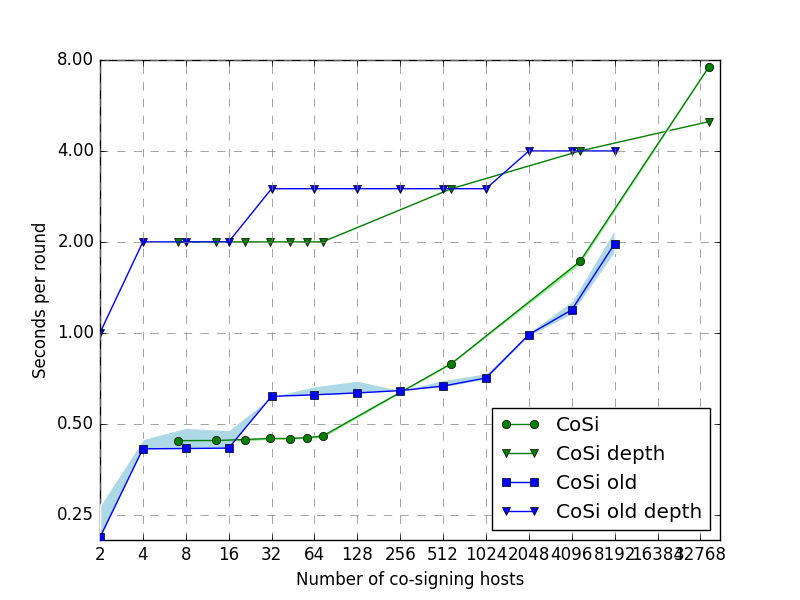
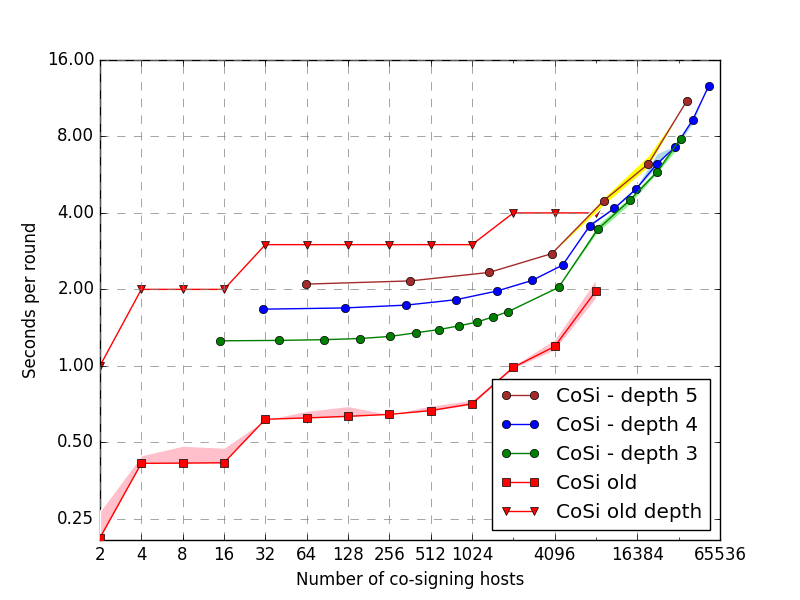
made new plot

diff --git a/simul/matplotlib/Paper_cosi2/plotit.py b/simul/matplotlib/Paper_cosi2/plotit.py
@@ -101,16 +101,20 @@ def plotAvgMM(cosi1, jvss = None, naive = None, nt = None):
 # Plots a Cothority and a JVSS run with regard to their averages. Supposes that
 # the last two values from JVSS are off-grid and writes them with arrows
 # directly on the plot
-def plotCoSiOld(cosi, cosi_old):
+def plotCoSiOld(cosi_old, cosi_3, cosi_4, cosi_5):
     mplot.plotPrepareLogLog()
 
-    co = mplot.plotMMA(cosi, 'round_wall', color1_light, 4,
-                       dict(label='CoSi', linestyle='-', marker='o', color=color1_dark, zorder=5))
-    co_depth = cosi.columns['depth']
-    plt.plot(cosi.x, co_depth, linestyle='-', marker='v', color=color1_dark, label='CoSi depth')
+    co_5 = mplot.plotMMA(cosi_5, 'round_wall', color3_light, 4,
+                       dict(label='CoSi - depth 5', linestyle='-', marker='o', color=color3_dark, zorder=5))
 
-    co_old = mplot.plotMMA(cosi_old, 'round_wall', color2_light, 4,
-                       dict(label='CoSi old', linestyle='-', marker='s', color=color2_dark, zorder=5))
+    co_4 = mplot.plotMMA(cosi_4, 'round_wall', color2_light, 4,
+                       dict(label='CoSi - depth 4', linestyle='-', marker='o', color=color2_dark, zorder=5))
+
+    co_3 = mplot.plotMMA(cosi_3, 'round_wall', color1_light, 4,
+                       dict(label='CoSi - depth 3', linestyle='-', marker='o', color=color1_dark, zorder=5))
+
+    co_old = mplot.plotMMA(cosi_old, 'round_wall', color4_light, 4,
+                       dict(label='CoSi old', linestyle='-', marker='s', color=color4_dark, zorder=5))
     co_old_hosts = cosi_old.columns['hosts']
     co_old_bf = cosi_old.columns['bf']
     co_old_depth = []
@@ -126,12 +130,12 @@ def plotCoSiOld(cosi, cosi_old):
     print co_old_hosts
     print co_old_bf
     print co_old_depth
-    plt.plot(cosi_old.x, co_old_depth, linestyle='-', marker='v', color=color2_dark, label='CoSi old depth')
+    plt.plot(cosi_old.x, co_old_depth, linestyle='-', marker='v', color=color4_dark, label='CoSi old depth')
 
     # Make horizontal lines and add arrows for JVSS
     # xmin, xmax, ymin, ymax = CSVStats.get_min_max(na, co)
-    xmin, xmax, ymin, ymax = CSVStats.get_min_max(co, co_old)
-    plt.ylim(ymin, 8)
+    xmin, xmax, ymin, ymax = CSVStats.get_min_max(co_3, co_4, co_5, co_old)
+    plt.ylim(ymin, 16)
     plt.xlim(xmin, xmax * 1.2)
     plt.ylabel('Seconds per round')
 
@@ -292,8 +296,8 @@ def args_to_csv(argn, xname = "hosts"):
 option = sys.argv[1]
 
 if option == "0":
-    cosi, cosi_old = args_to_csv(2)
-    plotCoSiOld(cosi, cosi_old)
+    cosi_old, cosi_3, cosi_4, cosi_5 = args_to_csv(4)
+    plotCoSiOld(cosi_old, cosi_3, cosi_4, cosi_5)
 elif option == "1":
     cothority, jvss, naive, naive_sc, ntree = args_to_csv(5)
     CoJVTimeBars(cothority, jvss, naive)

diff --git a/simul/matplotlib/mplot.py b/simul/matplotlib/mplot.py
@@ -7,6 +7,7 @@ matplotlib.use('TkAgg')
 import matplotlib.pyplot as plt
 import matplotlib.ticker
 import csv
+import numpy as np
 
 # Our CSVs have a space after the comma, so we need a new 'dialect', here
 # called 'deploy'
@@ -159,9 +160,12 @@ class MPlot:
         ax.yaxis.set_major_formatter(matplotlib.ticker.FormatStrFormatter('%2.2f'))
 
 
+
     # Ends the plot and takes an extension for saving the png. If
     # show_fig is True, it will show the window instead.
     def plotEnd(self):
+        ax = plt.axes()
+        ax.set_xticks([2, 4, 8, 16, 32, 64, 128, 256, 512, 1024, 4096, 16384, 65536])
         if self.show_fig:
             print "Showing plot"
             plt.show()
